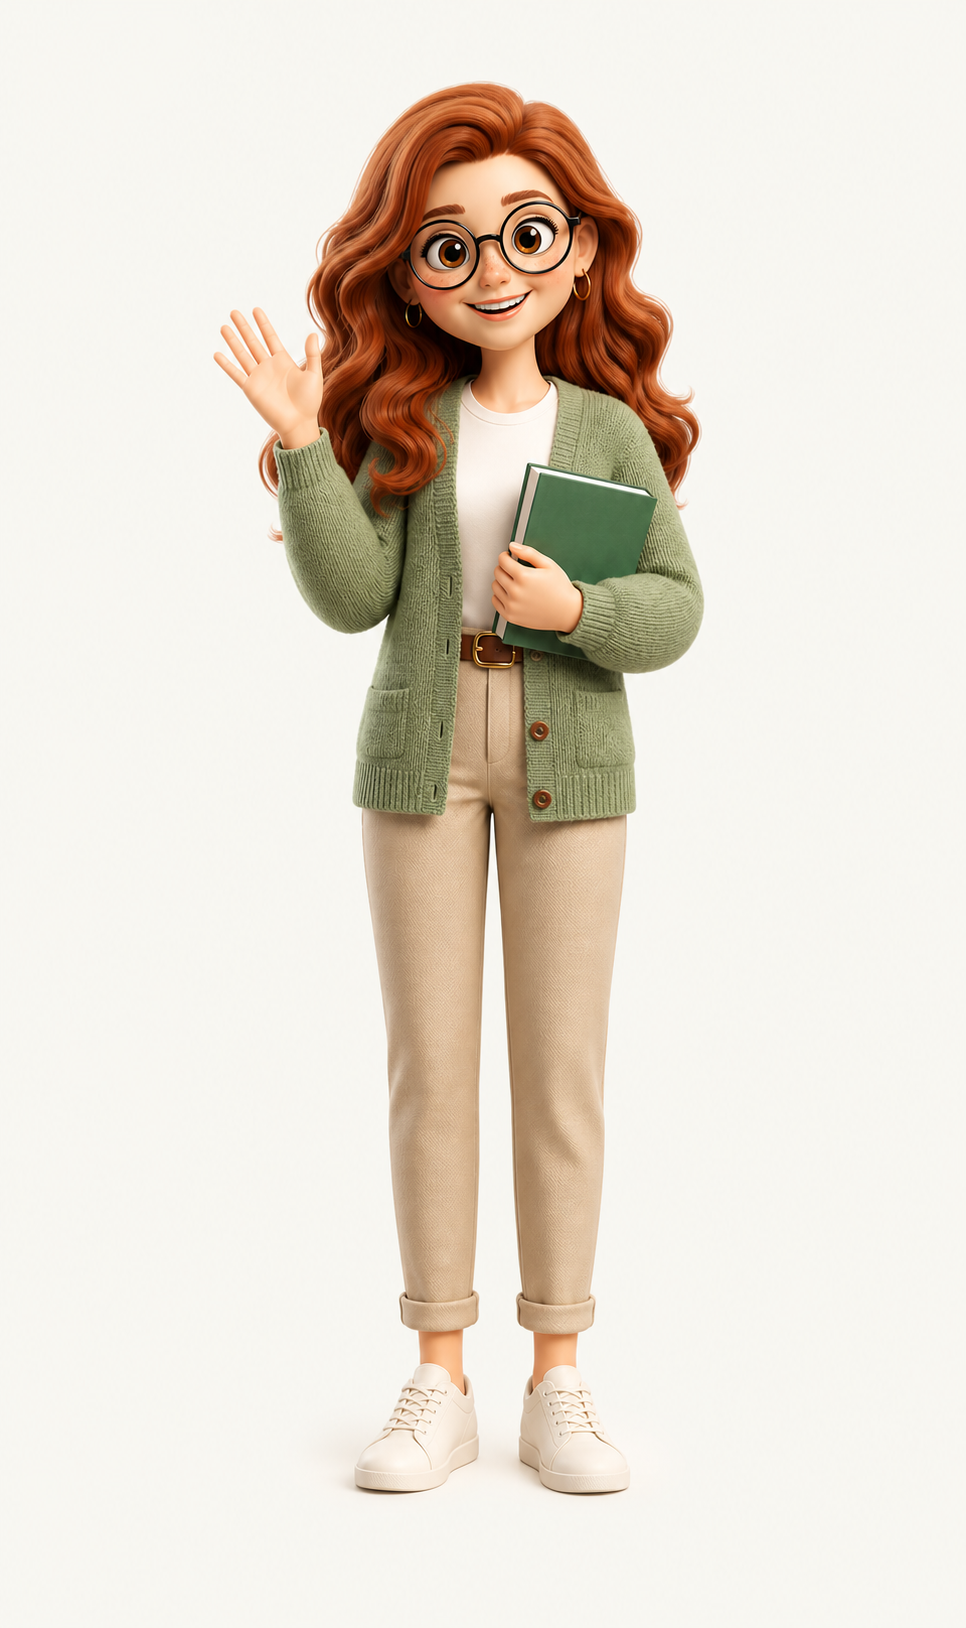
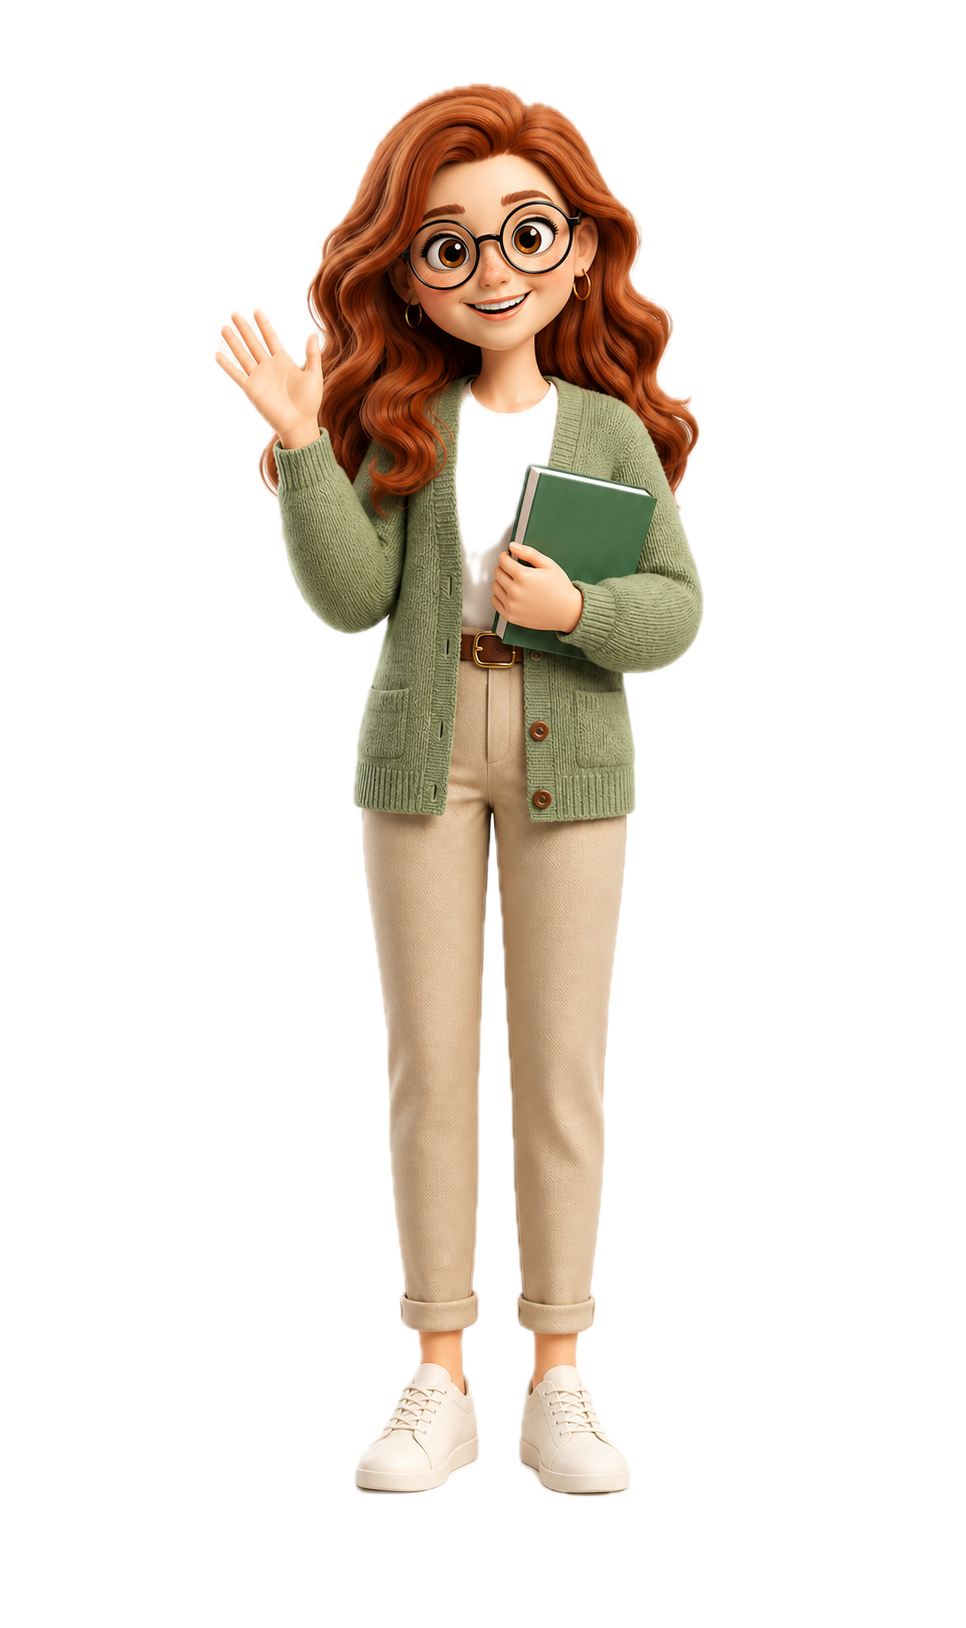
fe: start redesign

diff --git a/_bmad-output/planning-artifacts/ux-designs/ux-devaro-english-2026-06-01/.working/direction-selective-collage.html b/_bmad-output/planning-artifacts/ux-designs/ux-devaro-english-2026-06-01/.working/direction-selective-collage.html
@@ -1,0 +1,107 @@
+<!doctype html>
+<html lang="uk">
+<head>
+  <meta charset="utf-8">
+  <meta name="viewport" content="width=device-width, initial-scale=1">
+  <title>Devaro English - Selective Collage Direction</title>
+  <style>
+    /* Direction tokens: paper #f7f4ed, ink #172e28, green #23724f, pink #ee72df,
+       muted #59645f, white #fffefb, grid rgba(255,255,255,.18) */
+    * { box-sizing: border-box; }
+    body { margin: 0; background: #23724f; color: #172e28; font-family: Inter, Arial, sans-serif; }
+    .frame { max-width: 1500px; margin: 18px auto; overflow: hidden; background: #f7f4ed; }
+    .note { margin: 0; padding: 14px 24px; background: #172e28; color: #fffefb; font-size: 13px; line-height: 1.5; }
+    header { display: flex; align-items: center; justify-content: space-between; padding: 18px 46px; }
+    .logo { font-weight: 950; font-size: 30px; letter-spacing: -.08em; transform: rotate(-1deg); }
+    .logo span { color: #23724f; }
+    nav { display: flex; gap: 8px; font-size: 13px; font-weight: 850; }
+    nav span { padding: 7px 10px 5px; border-bottom: 3px solid transparent; transition: border-color .15s ease; }
+    nav span:hover { border-bottom-color: #23724f; }
+    .lang { border: 2px solid #172e28; padding: 7px 10px; background: white; font-size: 12px; font-weight: 900; box-shadow: 3px 3px 0 rgba(23,46,40,.12); transform: rotate(1deg); }
+    .hero { position: relative; display: grid; min-height: 690px; grid-template-columns: 1fr 1fr; overflow: hidden; padding: 74px 46px 62px; }
+    .hero:before { position: absolute; inset: 0; content: ""; opacity: .42; background-image: radial-gradient(rgba(23,46,40,.18) .75px, transparent .75px); background-size: 6px 6px; }
+    .copy { position: relative; z-index: 3; max-width: 730px; }
+    .eyebrow { display: inline-block; margin: 0 0 22px; padding: 7px 10px; transform: rotate(-2deg); background: #23724f; color: white; font-size: 14px; font-weight: 950; box-shadow: 3px 3px 0 rgba(23,46,40,.12); }
+    h1 { max-width: 770px; margin: 0; font-family: Impact, Haettenschweiler, "Arial Narrow Bold", sans-serif; font-size: clamp(64px, 7vw, 112px); font-weight: 900; line-height: .88; letter-spacing: -.035em; text-transform: uppercase; }
+    .accent { position: relative; display: inline-block; z-index: 1; }
+    .accent:after { position: absolute; right: -7px; bottom: 5px; left: -7px; z-index: -1; height: 20px; content: ""; background: #ee72df; transform: rotate(-1deg); }
+    .lead { max-width: 610px; margin: 28px 0; color: #59645f; font-size: 19px; line-height: 1.55; }
+    .actions { display: flex; flex-wrap: wrap; gap: 12px; }
+    .button { display: inline-block; padding: 14px 18px; border: 2px solid #23724f; background: #23724f; color: white; font-size: 14px; font-weight: 950; text-decoration: none; box-shadow: 4px 4px 0 rgba(23,46,40,.14); transform: rotate(-1deg); transition: transform .15s ease, box-shadow .15s ease; }
+    .button:hover { box-shadow: 2px 2px 0 rgba(23,46,40,.14); transform: translate(2px,2px) rotate(-1deg); }
+    .button.alt { border-color: #172e28; background: white; color: #23724f; transform: rotate(1deg); }
+    .button.alt:hover { transform: translate(2px,2px) rotate(1deg); }
+    .visual { position: relative; z-index: 2; min-height: 540px; }
+    .grid { position: absolute; right: -120px; bottom: -100px; width: 570px; height: 500px; transform: rotate(-6deg); background-color: #101c19; background-image: linear-gradient(rgba(255,255,255,.16) 1px, transparent 1px), linear-gradient(90deg, rgba(255,255,255,.16) 1px, transparent 1px); background-size: 27px 27px; clip-path: polygon(6% 6%, 100% 0, 94% 93%, 63% 87%, 52% 100%, 17% 89%, 0 57%); }
+    .paper { position: absolute; right: 8%; bottom: 0; width: 73%; height: 95%; background: #fffefb; clip-path: polygon(5% 0, 100% 6%, 96% 97%, 11% 100%, 0 72%, 4% 51%, 0 20%); filter: drop-shadow(0 16px 9px rgba(23,46,40,.10)); }
+    .teacher { position: absolute; right: 12%; bottom: 0; z-index: 3; width: 68%; max-height: 620px; object-fit: contain; mix-blend-mode: multiply; }
+    .badge { position: absolute; z-index: 5; padding: 5px 8px; background: #ee72df; color: #172e28; font-size: 14px; font-weight: 950; box-shadow: 3px 3px 0 rgba(23,46,40,.14); transform: rotate(-5deg); }
+    .badge.one { top: 15%; right: 2%; }
+    .badge.two { right: 3%; bottom: 18%; background: #23724f; color: white; transform: rotate(4deg); }
+    .sticker { position: absolute; z-index: 6; width: 128px; height: 128px; display: grid; place-items: center; border: 8px solid white; border-radius: 52% 48% 52% 48%; background: repeating-radial-gradient(circle, #172e28 0 1.4px, #d3d4ce 1.8px 4px); color: white; filter: drop-shadow(4px 5px 0 rgba(23,46,40,.18)); font-size: 52px; transform: rotate(-12deg); }
+    .sticker.a { left: -5%; bottom: 14%; }
+    .sticker.b { right: 4%; top: 39%; width: 96px; height: 96px; font-size: 40px; transform: rotate(12deg); }
+    .lower { position: relative; display: grid; grid-template-columns: 1.2fr .8fr; gap: 22px; padding: 60px 46px 70px; background: #fffefb; }
+    .lower:before { position: absolute; top: -19px; left: 0; width: 100%; height: 28px; content: ""; background: #fffefb; clip-path: polygon(0 50%, 4% 15%, 10% 60%, 17% 20%, 23% 72%, 31% 16%, 39% 63%, 48% 9%, 58% 67%, 66% 17%, 75% 59%, 85% 7%, 93% 64%, 100% 22%, 100% 100%, 0 100%); }
+    h2 { margin: 0 0 14px; font-family: Impact, Haettenschweiler, "Arial Narrow Bold", sans-serif; color: #23724f; font-size: 54px; letter-spacing: -.02em; text-transform: uppercase; }
+    .cards { display: flex; gap: 12px; align-items: stretch; }
+    .card { flex: 1; padding: 21px; background: #f7f4ed; box-shadow: 5px 5px 0 #ee72df; }
+    .card strong { display: block; margin-bottom: 10px; font-size: 17px; }
+    .card p { margin: 0; color: #59645f; font-size: 14px; line-height: 1.45; }
+    .quote { padding: 25px; background: #23724f; color: white; box-shadow: 5px 5px 0 rgba(238,114,223,.56); }
+    .quote span { display: block; margin-bottom: 14px; color: #ee72df; font-size: 50px; line-height: .6; }
+    .quote b { font-size: 22px; line-height: 1.15; }
+    @media (max-width: 900px) {
+      header { padding: 18px 22px; } nav { display: none; }
+      .hero { display: block; min-height: 890px; padding: 48px 22px 36px; }
+      h1 { font-size: clamp(64px, 18vw, 94px); }
+      .visual { min-height: 400px; margin-top: 30px; }
+      .sticker.a { left: 0; } .sticker.b { right: 0; }
+      .lower { display: block; padding: 50px 22px; }
+      .cards { display: block; } .card { margin-bottom: 12px; }
+      .quote { margin-top: 16px; }
+    }
+  </style>
+</head>
+<body>
+  <div class="frame">
+    <p class="note">Direction preview: clean landing page with selective collage accents. The stickers shown here are composition placeholders; final decorative assets would be generated separately.</p>
+    <header>
+      <div class="logo">Devaro <span>English</span></div>
+      <nav><span>Програми</span><span>Викладачі</span><span>Ціни</span><span>Контакти</span></nav>
+      <div class="lang">UA / EN</div>
+    </header>
+    <section class="hero">
+      <div class="copy">
+        <p class="eyebrow">Онлайн-школа англійської для українців</p>
+        <h1>Розмовляйте <span class="accent">англійською</span> впевнено</h1>
+        <p class="lead">Індивідуальні Zoom-заняття з персональним підходом і реальним результатом. Менеджер допоможе підібрати викладача, формат і темп саме для вас.</p>
+        <div class="actions">
+          <a class="button" href="#">Записатися на пробне заняття</a>
+          <a class="button alt" href="#">Зв'язатися з менеджером</a>
+        </div>
+      </div>
+      <div class="visual">
+        <div class="grid"></div>
+        <div class="paper"></div>
+        <img class="teacher" src="../../../../../public/devaro-teacher-mascot.png" alt="Devaro English teacher mascot">
+        <div class="badge one">ОНЛАЙН 1:1</div>
+        <div class="badge two">ГНУЧКИЙ ГРАФІК</div>
+        <div class="sticker a">✎</div>
+        <div class="sticker b">Aa</div>
+      </div>
+    </section>
+    <section class="lower">
+      <div>
+        <h2>Оберіть напрям</h2>
+        <div class="cards">
+          <div class="card"><strong>Дорослі</strong><p>Практична англійська для роботи, подорожей і щоденного спілкування.</p></div>
+          <div class="card"><strong>Підлітки</strong><p>Структуровані заняття для школи та розмовної практики.</p></div>
+          <div class="card"><strong>Діти</strong><p>Спокійні онлайн-уроки з іграми та зрозумілим прогресом.</p></div>
+        </div>
+      </div>
+      <div class="quote"><span>“</span><b>Колажні акценти працюють як моменти уваги. Основні секції залишаються чистими та читабельними.</b></div>
+    </section>
+  </div>
+</body>
+</html>

diff --git a/_bmad-output/planning-artifacts/ux-designs/ux-devaro-english-2026-06-01/.decision-log.md b/_bmad-output/planning-artifacts/ux-designs/ux-devaro-english-2026-06-01/.decision-log.md
@@ -1,0 +1,29 @@
+# Devaro English UX Decision Log
+
+## 2026-06-01 - Create
+
+- Intent: redesign the existing Devaro English site using the supplied advertising banner only as a style reference.
+- Imported visual reference: `imports/site-template-style-reference.jpg` copied from `public/site-templste.jpg`.
+- Existing product surface observed: responsive Vue landing page with Ukrainian and English locale toggle, navigation, hero, stats, programs, lesson flow, teachers, pricing, social proof, and contact sections.
+- Candidate visual vocabulary visible in the supplied reference, pending user confirmation: torn-paper collage, black grid areas, photocopy halftones, oversized condensed type, dark green blocks, and pink highlights.
+- Confirmed: interpret the banner's styling for the existing site rather than copying its words or composition.
+- Confirmed visual vocabulary: torn-paper backgrounds or section treatments, sticker-like halftone graphics, dark green structural color, and pink accents.
+- Preserve the current content, bilingual behavior, information architecture, and site logic. Avoid unrelated changes outside the visual redesign.
+- Workflow mode: coaching path.
+- Quality posture: consumer-facing best-effort redesign. Do not reduce the design effort based on stakes classification.
+- Confirmed: do not bind `{implementation_artifacts}/spec-devaro-english-conversion-site.md` as a UX source. Existing implementation constraints such as Tailwind and `@iconoir/vue` are already visible in the codebase and do not need to drive the visual contract.
+- Confirmed: create a new decorative sticker asset family inspired by the reference banner. Stickers are independent decorative elements placed selectively across the site, similar in purpose to the existing floating learning icons.
+- Confirmed: preserve the existing teacher-section names, roles, copy, and photos. Do not apply a halftone filter to teacher portraits and do not replace them with sticker illustrations.
+- Confirmed visual register: clean with selective collage accents. Use torn-paper and sticker treatments at key moments rather than applying a dense poster treatment to every section.
+- Direction preview feedback: the first-pass header and buttons read too strict and business-like.
+- Refine toward an approachable learning site for students, teens, and children without becoming overly childlike.
+- Text sticker badges should use tighter padding.
+- Direction preview feedback: component styling became inconsistent after softening only the header and buttons.
+- Refine the whole component system together. Use one collage-friendly shape language across navigation, buttons, labels, cards, and panels: square printed-block edges, subtle irregular rotation only for accent pieces, and restrained offset shadows on interactive or featured elements.
+- Direction preview feedback: rounded corners are not appropriate for this visual language. Torn silhouettes and rotated printed blocks provide softness; UI elements should remain square-edged.
+- Header navigation hover should use a green underline with no background fill.
+- Lighten the primary green while preserving a grounded dark-green identity.
+- Direction preview feedback: outlined content cards read too rigid. Remove card borders; use paper-surface contrast and restrained offset shadows instead.
+- Secondary cards should use a clearly green offset backing layer rather than a translucent shadow.
+- Comparison pass requested: test pink offset backing layers on secondary cards.
+- Confirmed: use solid pink offset backing layers for paper cards, matching the featured quote card. Reserve green for primary structure and actions.

diff --git a/_bmad-output/planning-artifacts/ux-designs/ux-devaro-english-2026-06-01/DESIGN.md b/_bmad-output/planning-artifacts/ux-designs/ux-devaro-english-2026-06-01/DESIGN.md
@@ -1,0 +1,6 @@
+---
+name: Devaro English
+status: discovery
+updated: 2026-06-01
+sources: []
+---

diff --git a/_bmad-output/planning-artifacts/ux-designs/ux-devaro-english-2026-06-01/EXPERIENCE.md b/_bmad-output/planning-artifacts/ux-designs/ux-devaro-english-2026-06-01/EXPERIENCE.md
@@ -1,0 +1,6 @@
+---
+name: Devaro English
+status: discovery
+updated: 2026-06-01
+sources: []
+---
